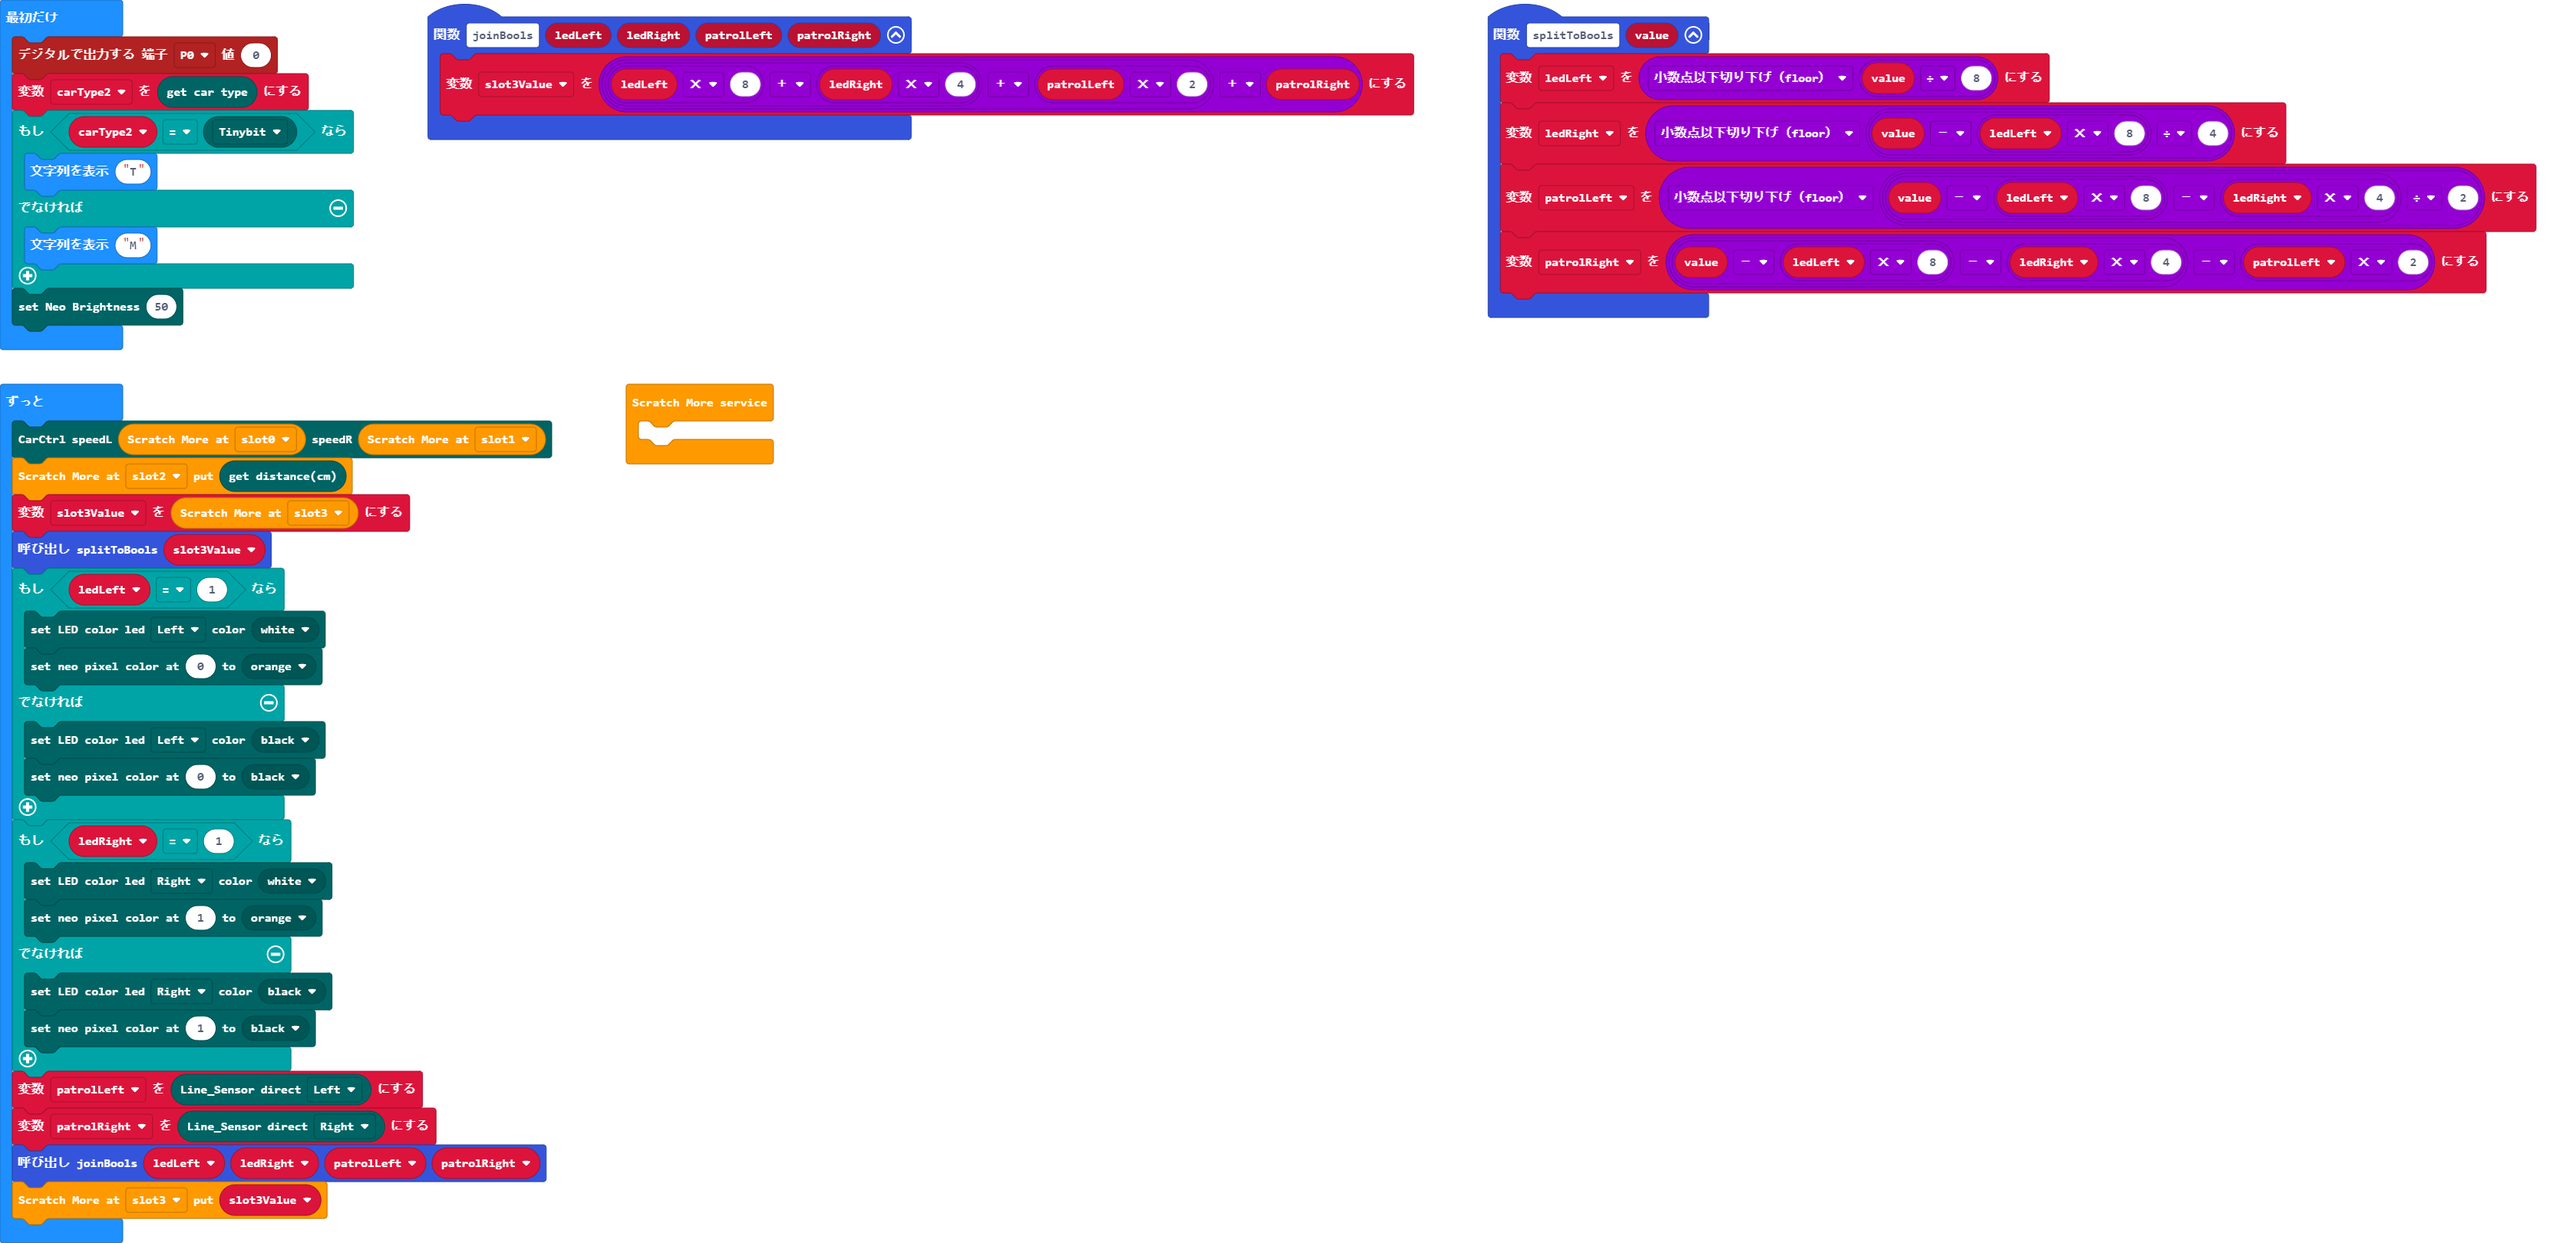
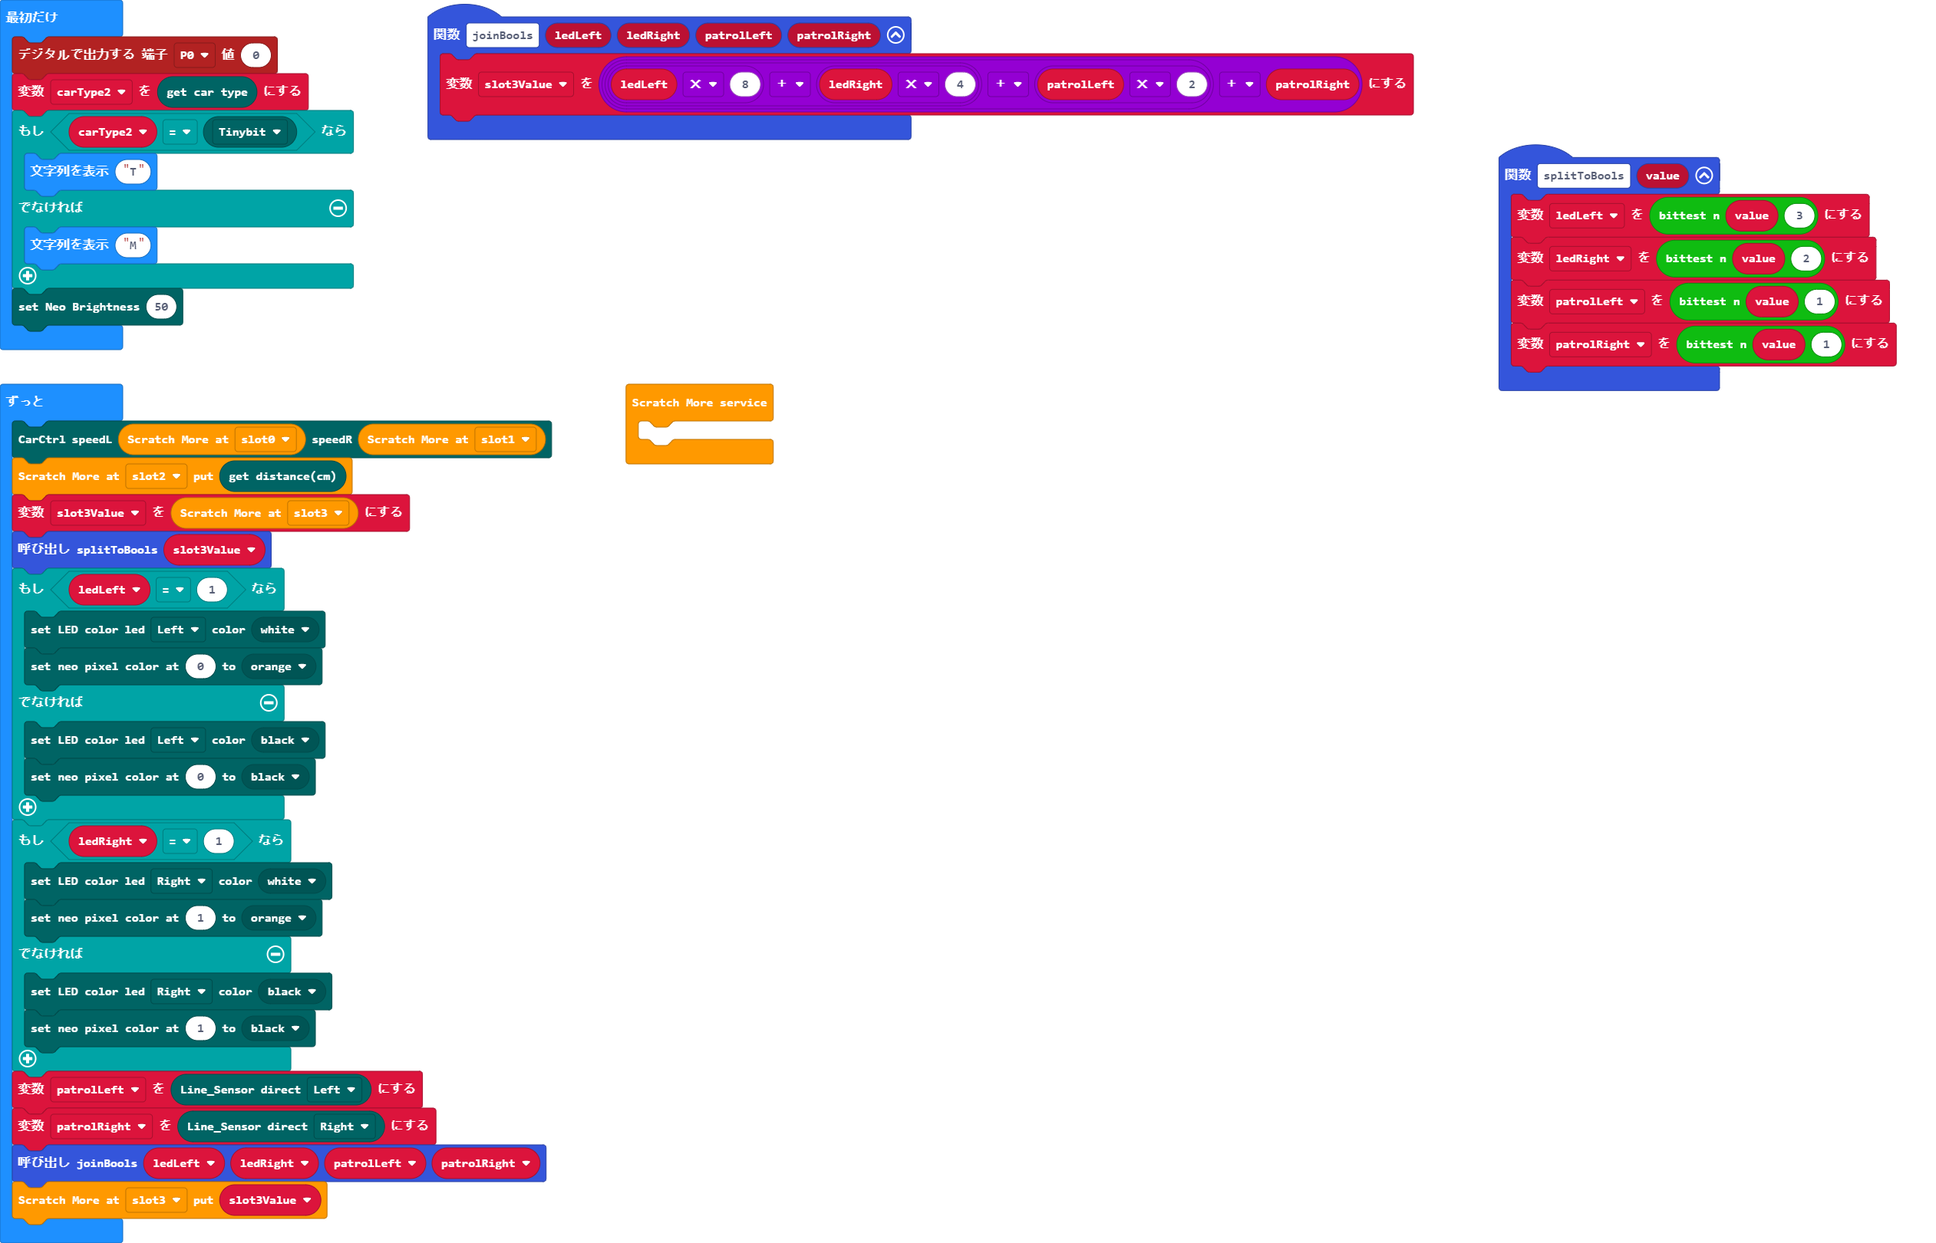
Update pxt.json, main.blocks, main.ts

Changed region(s): [[0.0, 0.0, 0.9893, 0.3393], [0.0, 0.3085, 0.4019, 1.0], [0.1237, 0.1542, 0.1855, 0.2468]]

diff --git a/main.ts b/main.ts
@@ -5,10 +5,10 @@ ScratchMore.startService(function () {
 	
 })
 function splitToBools (value: number) {
-    ledLeft = Math.floor(value / 8)
-    ledRight = Math.floor((value - ledLeft * 8) / 4)
-    patrolLeft = Math.floor((value - ledLeft * 8 - ledRight * 4) / 2)
-    patrolRight = value - ledLeft * 8 - ledRight * 4 - patrolLeft * 2
+    ledLeft = logic.bittestN(value, 3)
+    ledRight = logic.bittestN(value, 2)
+    patrolLeft = logic.bittestN(value, 1)
+    patrolRight = logic.bittestN(value, 1)
 }
 let patrolRight = 0
 let patrolLeft = 0
